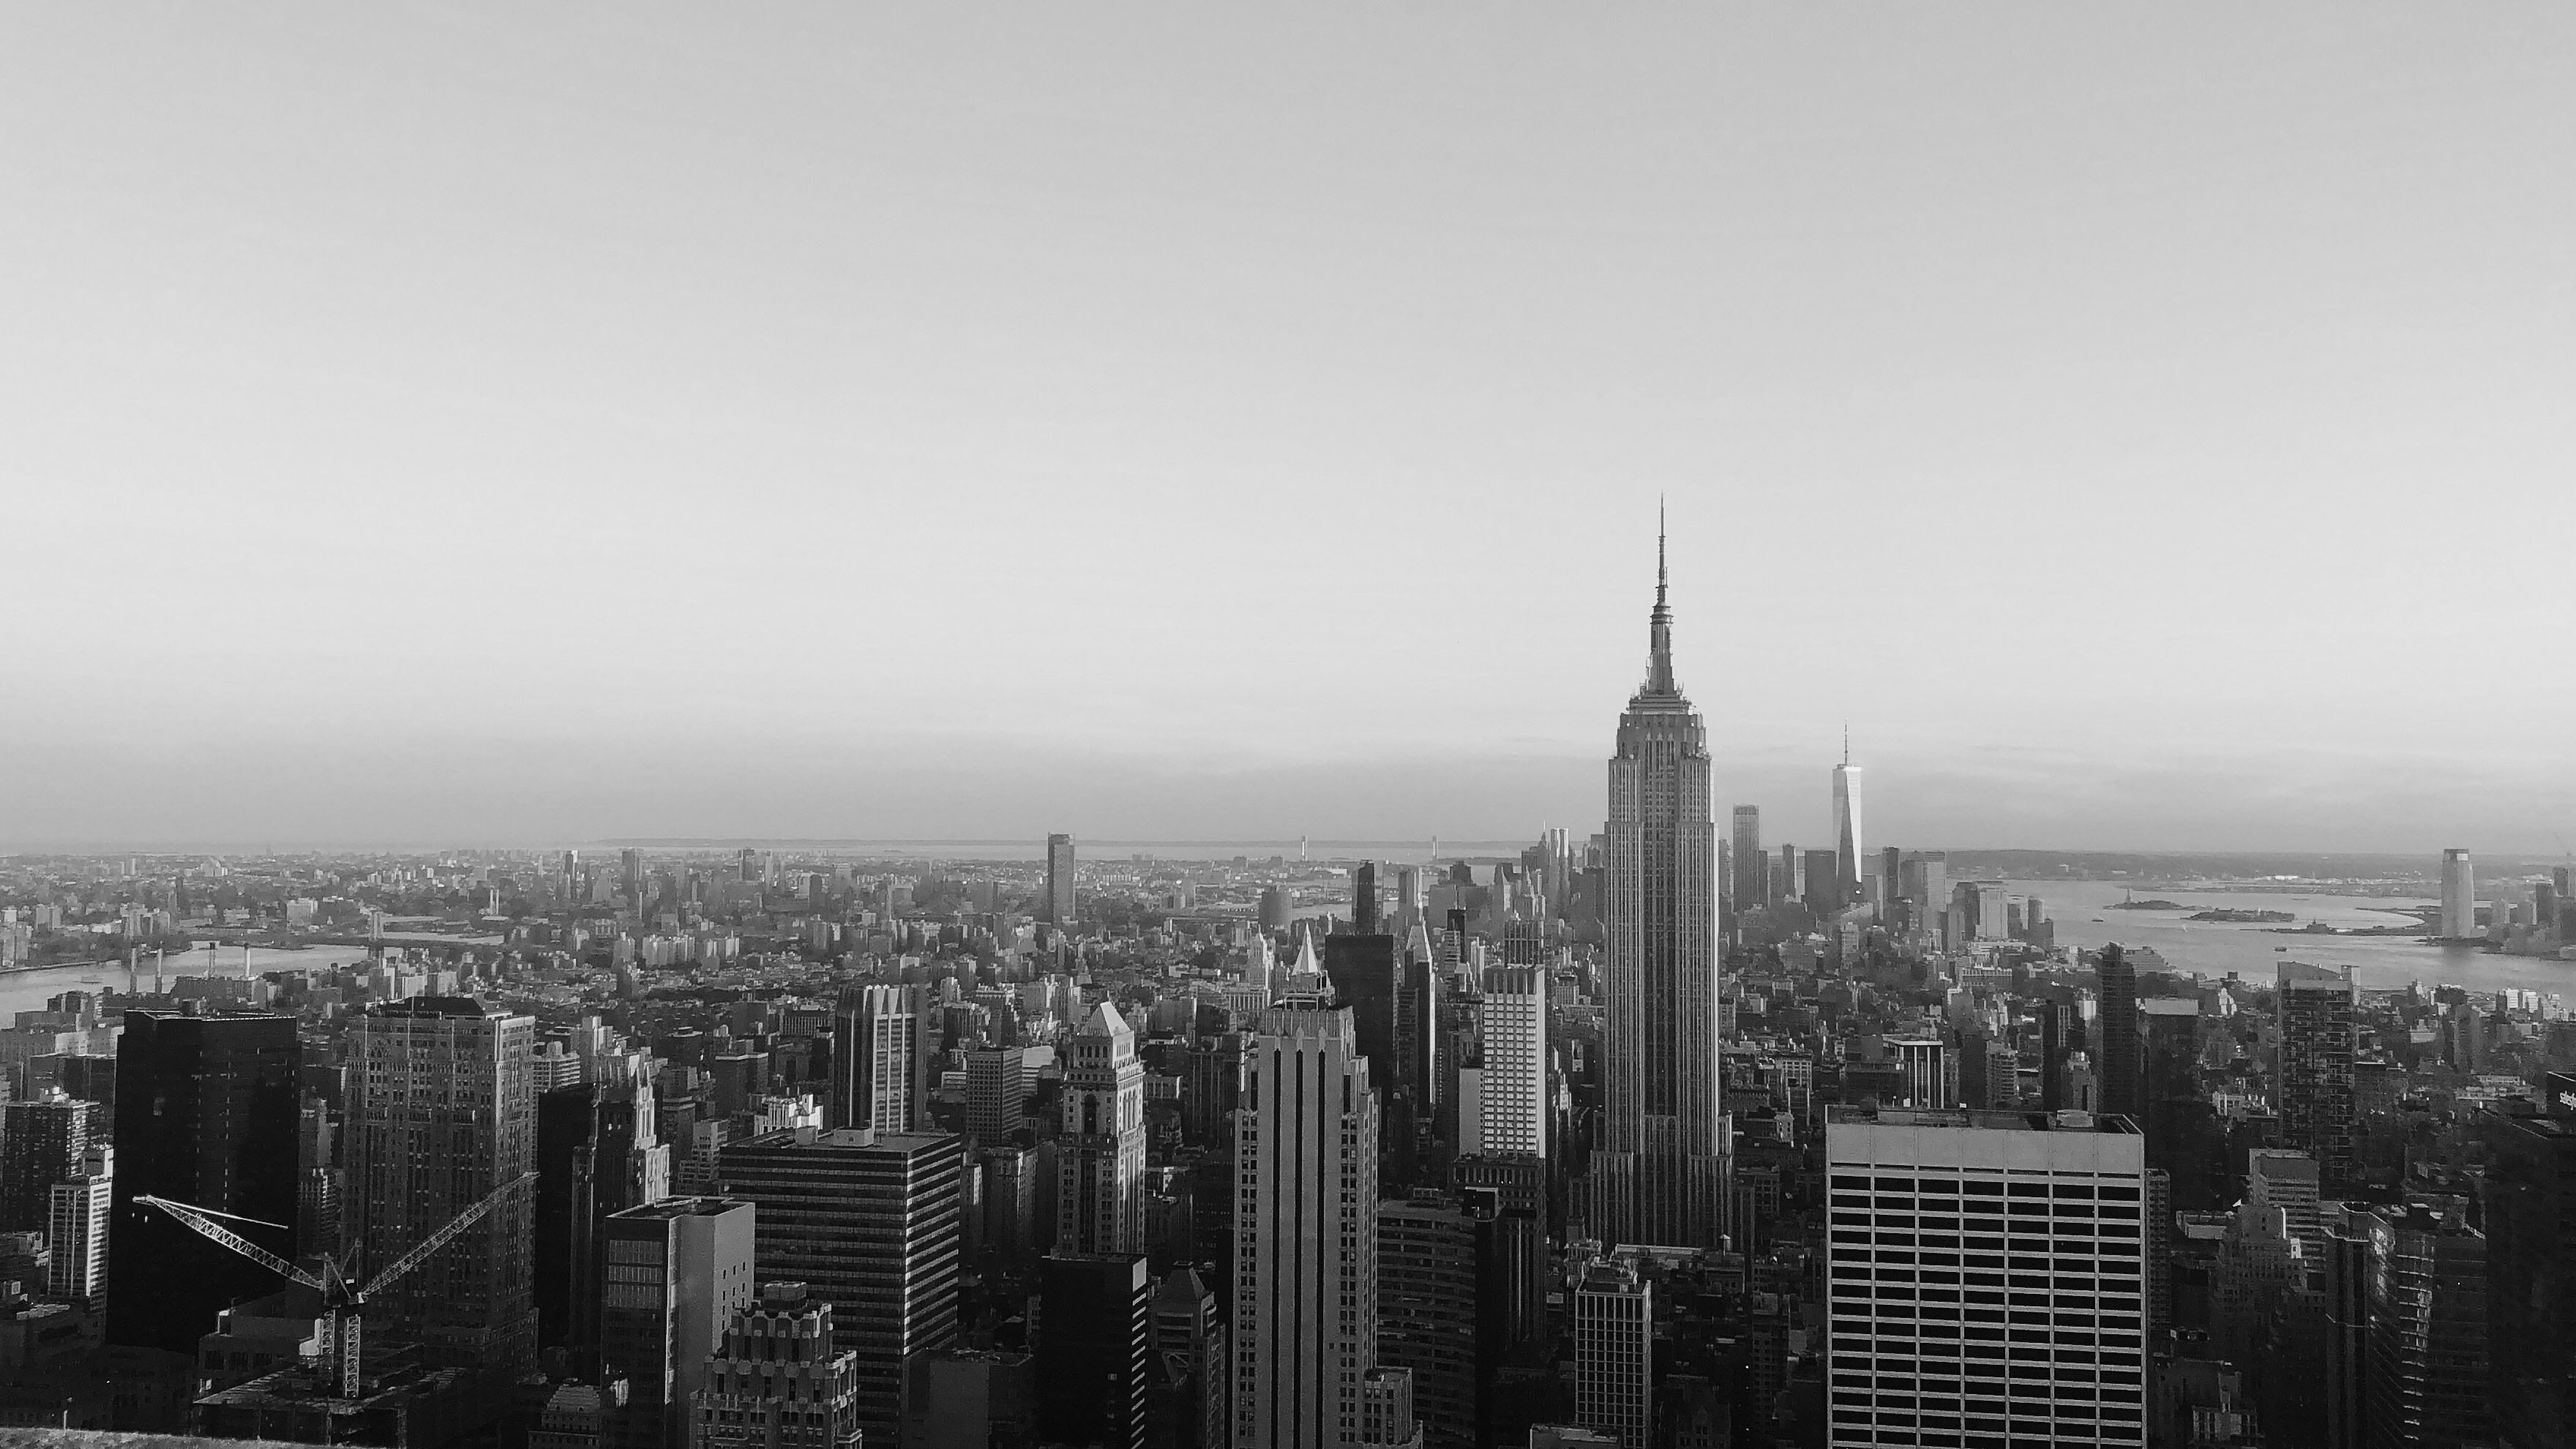
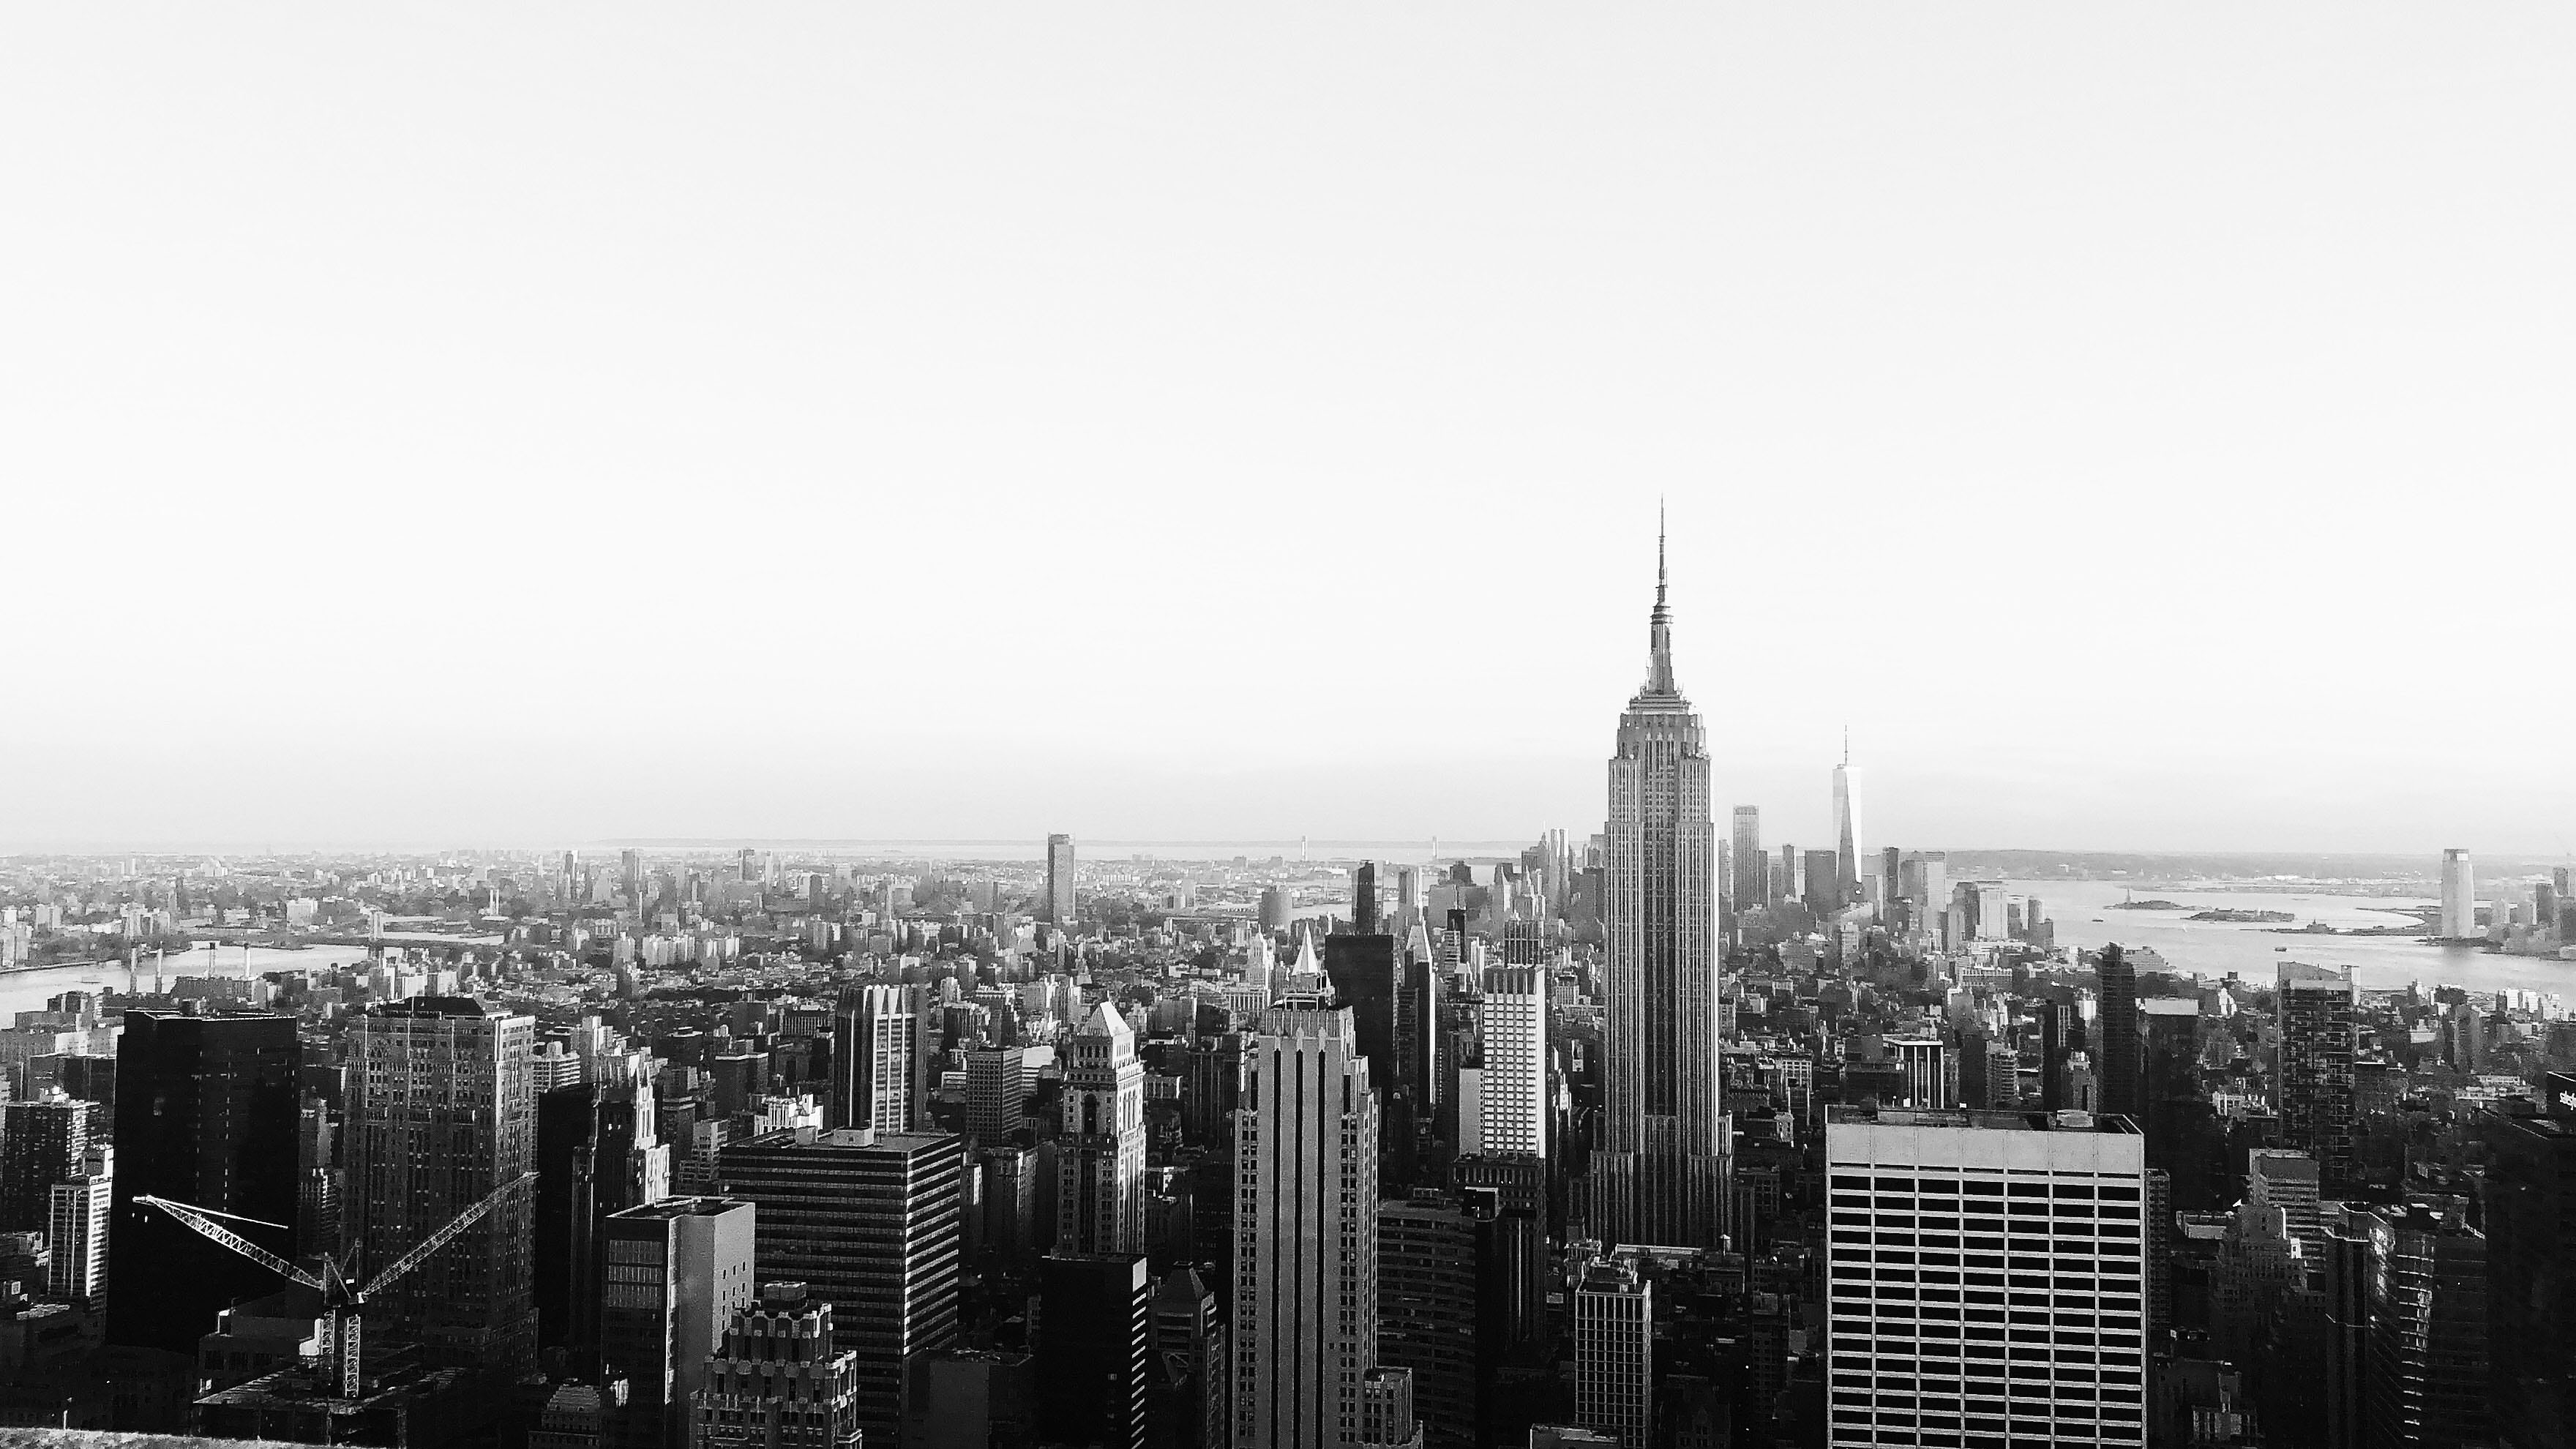
added images and changed styling

diff --git a/src/mock/data.js b/src/mock/data.js
@@ -17,11 +17,11 @@ export const heroData = {
 
 // ABOUT DATA
 export const aboutData = {
-  img: 'profile.jpg',
-  paragraphOne: "Likes words. Sometimes sentences. Paragraphs - that's the limit.",
+  img: 'daniel.jpg',
+  paragraphOne: "I like words. Sometimes sentences. Paragraphs - that's the limit.",
   paragraphTwo: '',
   paragraphThree: '',
-  resume: 'https://www.resumemaker.online/es.php', // if no resume, the button will not show up
+  resume: 'resume', // if no resume, the button will not show up
 };
 
 // PROJECTS DATA
@@ -38,7 +38,7 @@ export const projectsData = [
   },
   {
     id: nanoid(),
-    img: 'project.jpg',
+    img: 'project1.JPG',
     title: 'A text I wrote',
     info: 'This is another example of an awesome thing I did.',
     info2:
@@ -48,7 +48,7 @@ export const projectsData = [
   },
   {
     id: nanoid(),
-    img: 'project.jpg',
+    img: 'project2.JPG',
     title: 'Some words put together - by me',
     info: 'Third example! Incredible.',
     info2:

diff --git a/src/components/Resume/Resume.jsx b/src/components/Resume/Resume.jsx
@@ -1,0 +1,18 @@
+import React from 'react';
+import { Container } from 'react-bootstrap';
+import Title from '../Title/Title';
+
+const Resume = () => {
+  return (
+    <Container>
+    <Title title="Resume" />
+          <div className="about-wrapper__info">
+            <p className="about-wrapper__info-text">
+                I promise I've done a lot of very cool and impressive things.
+            </p>
+          </div>
+  </Container>
+  );
+};
+
+export default Resume;

diff --git a/src/style/sections/_hero.scss b/src/style/sections/_hero.scss
@@ -17,9 +17,9 @@
 
   // If you want to set a background image on the hero section, uncomment these with yout custom image
 
-  /* background: url("/src/assets/[your-image].png");
+  background: url("../images/background.jpg");
   background-position: center;
-  background-size: cover; */
+  background-size: cover;
 
   @include respond(phone) {
     padding: 0rem $default-font-size;

diff --git a/src/pages/resume.js b/src/pages/resume.js
@@ -1,0 +1,15 @@
+import React from 'react';
+import { headData } from '../mock/data';
+import 'bootstrap/dist/css/bootstrap.min.css';
+import '../style/main.scss';
+import Resume from '../components/Resume/Resume';
+
+export default () => {
+  const { title, lang, description } = headData;
+
+  return (
+    <>
+      <Resume></Resume>
+    </>
+  );
+};

diff --git a/src/components/About/About.jsx b/src/components/About/About.jsx
@@ -25,7 +25,7 @@ const About = () => {
   return (
     <section id="about">
       <Container>
-        <Title title="About Me" />
+        <Title title="About me" />
         <Row className="about-wrapper">
           <Col md={6} sm={12}>
             <Fade bottom duration={1000} delay={600} distance="30px">

diff --git a/src/style/abstracts/_variables.scss b/src/style/abstracts/_variables.scss
@@ -1,6 +1,6 @@
 // COLORS
-$primary-color: #fd8552;
-$secondary-color: #0090cd;
+$primary-color: #ff9274;
+$secondary-color: #8e0000;
 
 // $primary-color: #7f449d;
 // $secondary-color: #793fc1;
